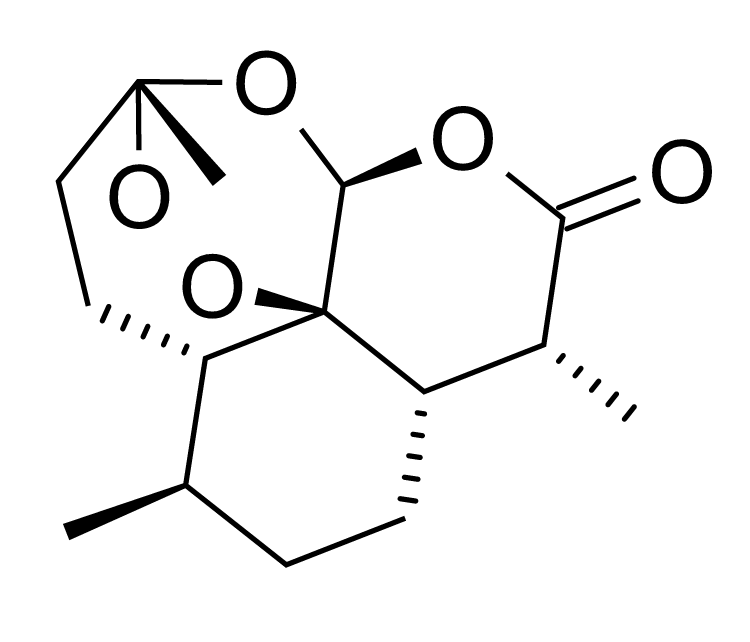
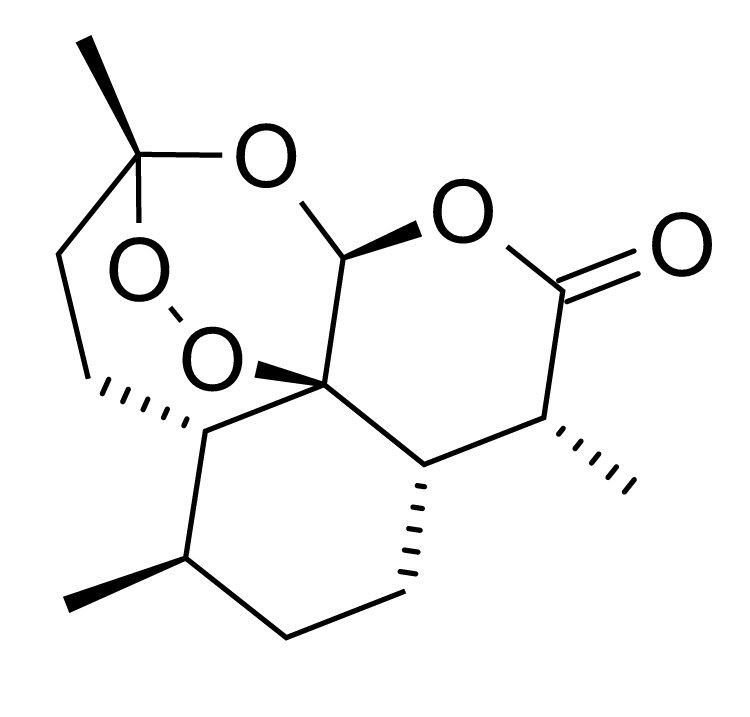
docs: show final artemisinin rendering as primary evidence

diff --git a/docs/changes/artemisinin-depiction.md b/docs/changes/artemisinin-depiction.md
@@ -5,8 +5,9 @@ Fixes [#515](https://github.com/Ameyanagi/ReShiki/issues/515).
 Artemisinin imported from SMILES previously had overlapping peroxide oxygen
 labels. Import now retries native ring templates when a bridged ring system has
 severe atom overlaps, and uses the retry only when it reduces those overlaps.
-The resulting drawing retains C15H22O5 and its isomeric identity, and whole-molecule
-cleanup succeeds.
+The resulting drawing places the peroxide-adjacent methyl outside the cage,
+keeps the peroxide O–O connector visible, and retains C15H22O5 and all seven
+stereocentres. Whole-molecule cleanup succeeds.
 
 Saved drawings keep their existing coordinates. Cleanup still refuses a change
 that would alter the stereochemistry read independently from the original wedges.
@@ -20,12 +21,14 @@ cleanup retains the advice to include the whole molecule.
 
 ![Artemisinin before the fix, with overlapping peroxide oxygen labels](../images/artemisinin-depiction/before.png)
 
-**After:** the oxygen labels are separated, with the molecular identity retained.
+**After:** the oxygen labels are separated, the methyl points outside the cage,
+and the peroxide connector is visible, with the molecular identity retained.
 
-![Artemisinin after import retries ring templates, with separated peroxide oxygen labels](../images/artemisinin-depiction/after.png)
+![Final artemisinin import with an outward methyl, separated oxygen labels and a visible peroxide connector](../images/artemisinin-depiction/after.png)
 
-Reusable release caption: “Artemisinin imports with separated peroxide oxygen
-labels and can be cleaned up without changing its stereochemistry.”
+Reusable release caption: “Artemisinin import and cleanup place the
+peroxide-adjacent methyl outside the cage and keep the peroxide bond visible,
+while preserving all seven stereocentres.”
 
 ## Reproduce
 
@@ -50,21 +53,25 @@ selection.
 
 ## Capture and verification
 
-- Base: `3d80590a`; implementation: `d33d213e`.
+- Base: `3d80590a`; initial retry: `d33d213e`; final functional follow-up: `6b7373c5`.
 - Captured on macOS arm64 with Rust 1.99.0, using the application scene renderer
   and its normal font database. Both images use the same union bounds, white
-  background, and 3× raster scale. They contain no selection overlay.
+  background, and 3× raster scale. The final matched pair is 750 × 717 pixels
+  and contains no selection overlay.
 - The before image reconstructs the baseline import using the unchanged native
-  no-template depiction API. The after image uses the current engine import
-  response. These are renderer captures, rather than screenshots of the desktop
+  no-template depiction API. The after image uses the final `6b7373c5` engine
+  import response. These are renderer captures, rather than screenshots of the desktop
   import dialog. The cleanup result was also rendered and was visually identical
   to the after image.
-- Four focused regression tests cover deterministic artemisinin import, rendered
+- Focused regression tests cover deterministic artemisinin import, rendered
   label-ink separation, source and cleanup isomeric identity, unchanged native
   coordinates for clear imports, rejection of a template that worsens collisions,
-  and distinct whole/partial-selection stereo refusal messages.
-- The full IO library suite passed: 258 tests, with five opt-in tests ignored.
-  Focused Clippy and the normal commit hooks passed.
+  distinct whole/partial-selection stereo refusal messages, exterior methyl
+  placement and the actual peroxide connector. The follow-up checks below
+  cover the final clipping, picking and visible-stereo controls.
+- The final full IO library suite passed: 263 tests, with five opt-in tests ignored;
+  the model suite passed 806 tests, with 10 opt-in tests ignored. Focused Clippy
+  and the normal commit hooks passed.
 
 The native no-template result has two nonbonded atom pairs separated by less than
 0.75 depiction units, including an oxygen pair separated by only 0.0731 units
@@ -72,7 +79,11 @@ The native no-template result has two nonbonded atom pairs separated by less tha
 and no intersecting atom-label ink boxes. The existing native depiction reference
 API and its default coordinate output are unchanged.
 
-## Native desktop import and cleanup
+## Earlier native desktop check of the first template retry
+
+These historical captures record the first retry before the peroxide-adjacent
+methyl refinement. The corrected matched native comparison is in the follow-up
+section below.
 
 The native debug application at `e2c479d8` was also checked on 2026-10-25,
 on macOS 27.0.1 arm64. It ran in a separate application bundle with an isolated
